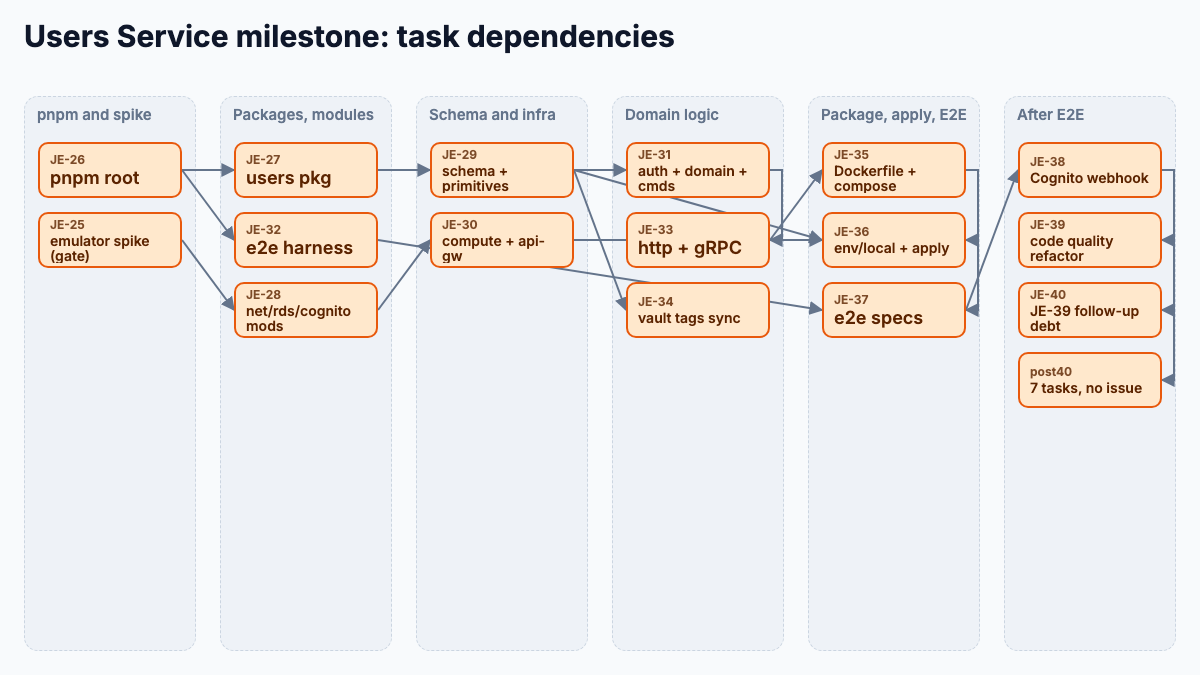
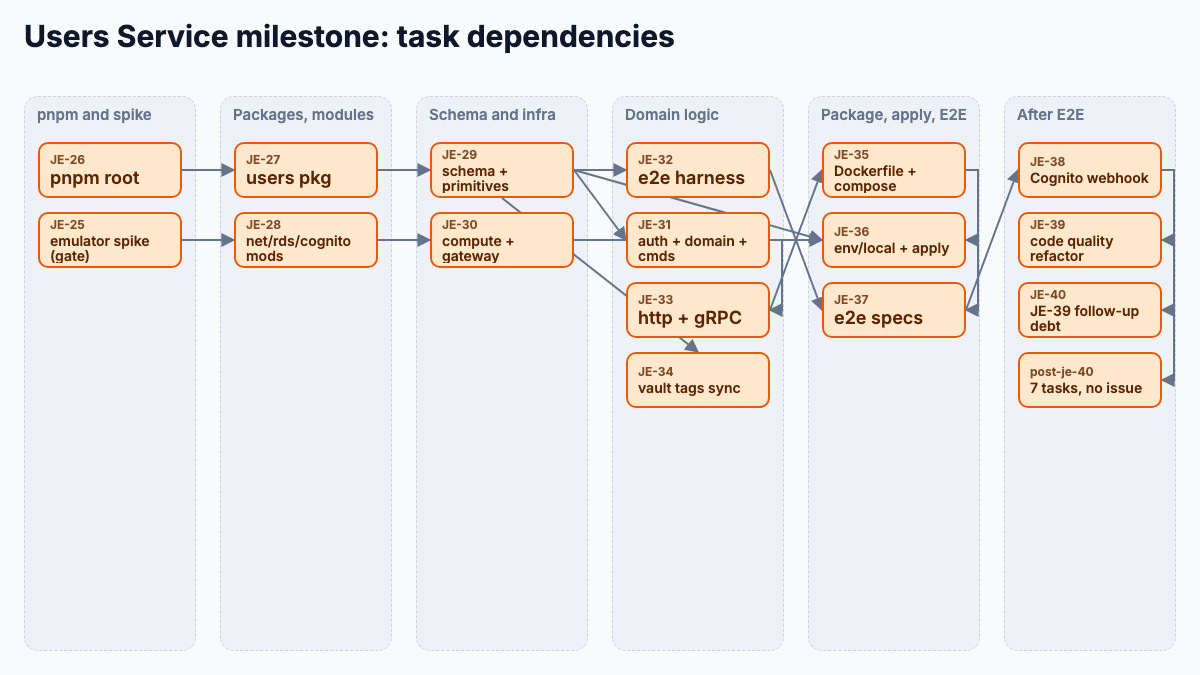
docs(vault): polish milestone and flow diagrams after review
Plan: docs/superpowers/plans/2026-10-06-remotion-diagrams.md

diff --git a/diagrams/src/data/milestones/users-service.ts b/diagrams/src/data/milestones/users-service.ts
@@ -14,10 +14,10 @@ export const usersServiceDeps: DependencyData = {
     { id: "JE-26", label: "pnpm root", phase: "start" },
     { id: "JE-25", label: "emulator spike (gate)", phase: "start" },
     { id: "JE-27", label: "users pkg", phase: "pkg" },
-    { id: "JE-32", label: "e2e harness", phase: "pkg" },
+    { id: "JE-32", label: "e2e harness", phase: "domain" },
     { id: "JE-28", label: "net/rds/cognito mods", phase: "pkg" },
     { id: "JE-29", label: "schema + primitives", phase: "schema" },
-    { id: "JE-30", label: "compute + api-gw", phase: "schema" },
+    { id: "JE-30", label: "compute + gateway", phase: "schema" },
     { id: "JE-31", label: "auth + domain + cmds", phase: "domain" },
     { id: "JE-33", label: "http + gRPC", phase: "domain" },
     { id: "JE-34", label: "vault tags sync", phase: "domain" },
@@ -27,7 +27,7 @@ export const usersServiceDeps: DependencyData = {
     { id: "JE-38", label: "Cognito webhook", phase: "followup" },
     { id: "JE-39", label: "code quality refactor", phase: "followup" },
     { id: "JE-40", label: "JE-39 follow-up debt", phase: "followup" },
-    { id: "post40", label: "7 tasks, no issue", phase: "followup" },
+    { id: "post-je-40", label: "7 tasks, no issue", phase: "followup" },
   ],
   deps: [
     { from: "JE-26", to: "JE-27" },
@@ -47,6 +47,6 @@ export const usersServiceDeps: DependencyData = {
     { from: "JE-37", to: "JE-38" },
     { from: "JE-38", to: "JE-39" },
     { from: "JE-39", to: "JE-40" },
-    { from: "JE-40", to: "post40" },
+    { from: "JE-40", to: "post-je-40" },
   ],
 };

diff --git a/diagrams/src/data/flows/tracking-outbox-relay.ts b/diagrams/src/data/flows/tracking-outbox-relay.ts
@@ -9,6 +9,7 @@ export const trackingOutboxRelay: FlowData = {
     { id: "db", label: "Tracking DB", kind: "data", aws: "rds" },
     { id: "poller", label: "Outbox poller", kind: "compute", aws: "ecs" },
     { id: "topic", label: "Events topic", kind: "messaging", aws: "sns" },
+    { id: "queue", label: "Events queue", kind: "messaging", aws: "sqs" },
     { id: "pipeline", label: "Events pipeline", kind: "compute", aws: "lambda" },
   ],
   steps: [
@@ -20,6 +21,7 @@ export const trackingOutboxRelay: FlowData = {
     { from: "poller", to: "db", label: "Delete row", caption: "Delivered rows are deleted; the commit after publishing releases the row locks" },
     { from: "poller", to: "db", label: "Reschedule", caption: "A failed publish keeps the row, bumps its attempts and backs off up to 5 minutes" },
     { from: "poller", to: "poller", label: "Discard", caption: "A row at 12 attempts is deleted and logged at ERROR with its order id" },
-    { from: "topic", to: "pipeline", label: "Deliver", caption: "Delivery is at-least-once; the pipeline dedupes a re-publish on its event_id", async: true },
+    { from: "topic", to: "queue", label: "Raw delivery", caption: "The topic fans the event out to the events queue, body unchanged", async: true },
+    { from: "queue", to: "pipeline", label: "Batch", caption: "At-least-once: the pipeline dedupes a re-publish on its event_id", async: true },
   ],
 };

diff --git a/diagrams/src/data/flows/checkout-address-geocoding-proxy.ts b/diagrams/src/data/flows/checkout-address-geocoding-proxy.ts
@@ -13,7 +13,7 @@ export const checkoutAddressGeocodingProxy: FlowData = {
   ],
   steps: [
     { from: "web", to: "nginx", label: "Street query", caption: "After a 300 ms debounce and 3+ characters, a same-origin call with no bearer token" },
-    { from: "nginx", to: "web", label: "503 disabled", caption: "With the key unset nginx answers itself; a keyless call would still burn free-tier quota" },
+    { from: "nginx", to: "web", label: "503 disabled", caption: "If the key is unset, nginx answers 503 itself rather than burn free-tier quota" },
     { from: "nginx", to: "geoapify", label: "Autocomplete", caption: "nginx appends the key and strips Authorization and Cookie before leaving the host" },
     { from: "geoapify", to: "nginx", label: "Suggestions", caption: "OpenStreetMap streets; Santo Domingo results carry no house numbers" },
     { from: "nginx", to: "o2", label: "Access log", caption: "The only logged location, so the free-tier call count is a web-geocode query", async: true },

diff --git a/diagrams/src/data/flows/orders-catalogue-cart.ts b/diagrams/src/data/flows/orders-catalogue-cart.ts
@@ -12,7 +12,7 @@ export const ordersCatalogueCart: FlowData = {
   ],
   steps: [
     { from: "web", to: "orders", label: "List products", caption: "The home page loads the catalogue once; category chips and search filter in the browser" },
-    { from: "orders", to: "cache", label: "Catalogue key", caption: "One key shared by every buyer, 10-minute TTL; a miss reads the products table" },
+    { from: "orders", to: "cache", label: "Catalogue key", caption: "One key shared by every buyer, 10-minute TTL; a miss goes on to the DB" },
     { from: "web", to: "orders", label: "Read cart", caption: "The drawer reads the cart on open; a buyer with no cart gets an empty one, never a 404" },
     { from: "orders", to: "users", label: "Resolve user id", caption: "Per-user keys need the user id: the identity cache first, else Users over gRPC" },
     { from: "orders", to: "cache", label: "Cart key", caption: "A per-user key with a 60-second TTL; a hit returns the stored body without the handler" },

diff --git a/diagrams/src/data/flows-events.catalog.ts b/diagrams/src/data/flows-events.catalog.ts
@@ -9,7 +9,7 @@ export const eventsFlowEntries: CatalogEntry[] = [
     title: trackingOutboxRelay.title,
     primitive: "flow",
     output: "docs/domains/tracking/specs/diagrams/tracking-outbox-relay",
-    watches: ["services/tracking-go/internal/outbox/**", "services/tracking-go/internal/bus/**"],
+    watches: ["services/tracking-go/internal/outbox/**", "services/tracking-go/internal/bus/**", "services/tracking-go/internal/app/update_status.go"],
     data: trackingOutboxRelay,
   },
   {
@@ -17,7 +17,7 @@ export const eventsFlowEntries: CatalogEntry[] = [
     title: eventsPipelineFanoutDlq.title,
     primitive: "flow",
     output: "docs/domains/events-pipeline/specs/diagrams/events-pipeline-fanout-dlq",
-    watches: ["functions/events-pipeline/src/**", "infra/modules/messaging/**"],
+    watches: ["functions/events-pipeline/src/**", "infra/modules/messaging/**", "infra/modules/lambda/**"],
     data: eventsPipelineFanoutDlq,
   },
   {

diff --git a/diagrams/src/data/flows-initial.catalog.ts b/diagrams/src/data/flows-initial.catalog.ts
@@ -45,7 +45,7 @@ export const initialFlowEntries: CatalogEntry[] = [
     title: observabilityTelemetry.title,
     primitive: "flow",
     output: "docs/shared/observability/diagrams/observability-telemetry",
-    watches: ["observability/**", "docker-compose.yml"],
+    watches: ["observability/**", "docker-compose.yml", "apps/web/nginx.conf"],
     data: observabilityTelemetry,
   },
 ];
